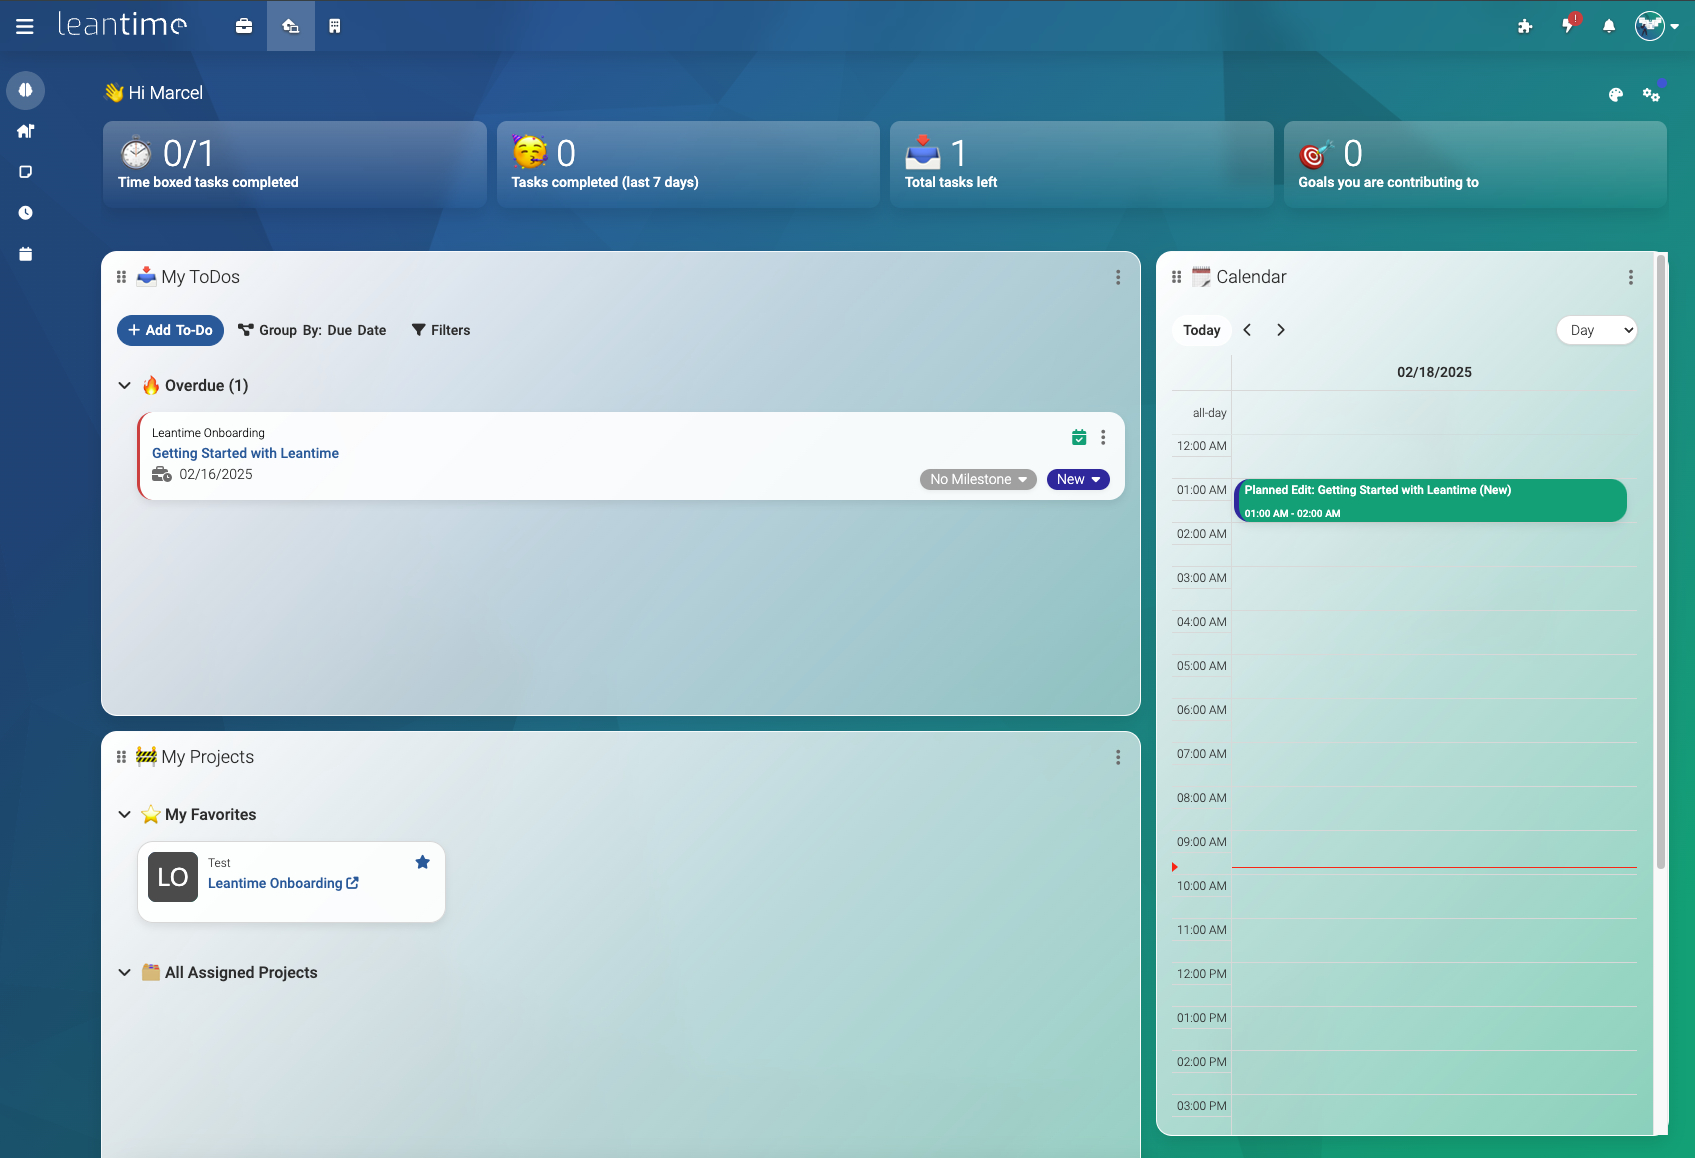
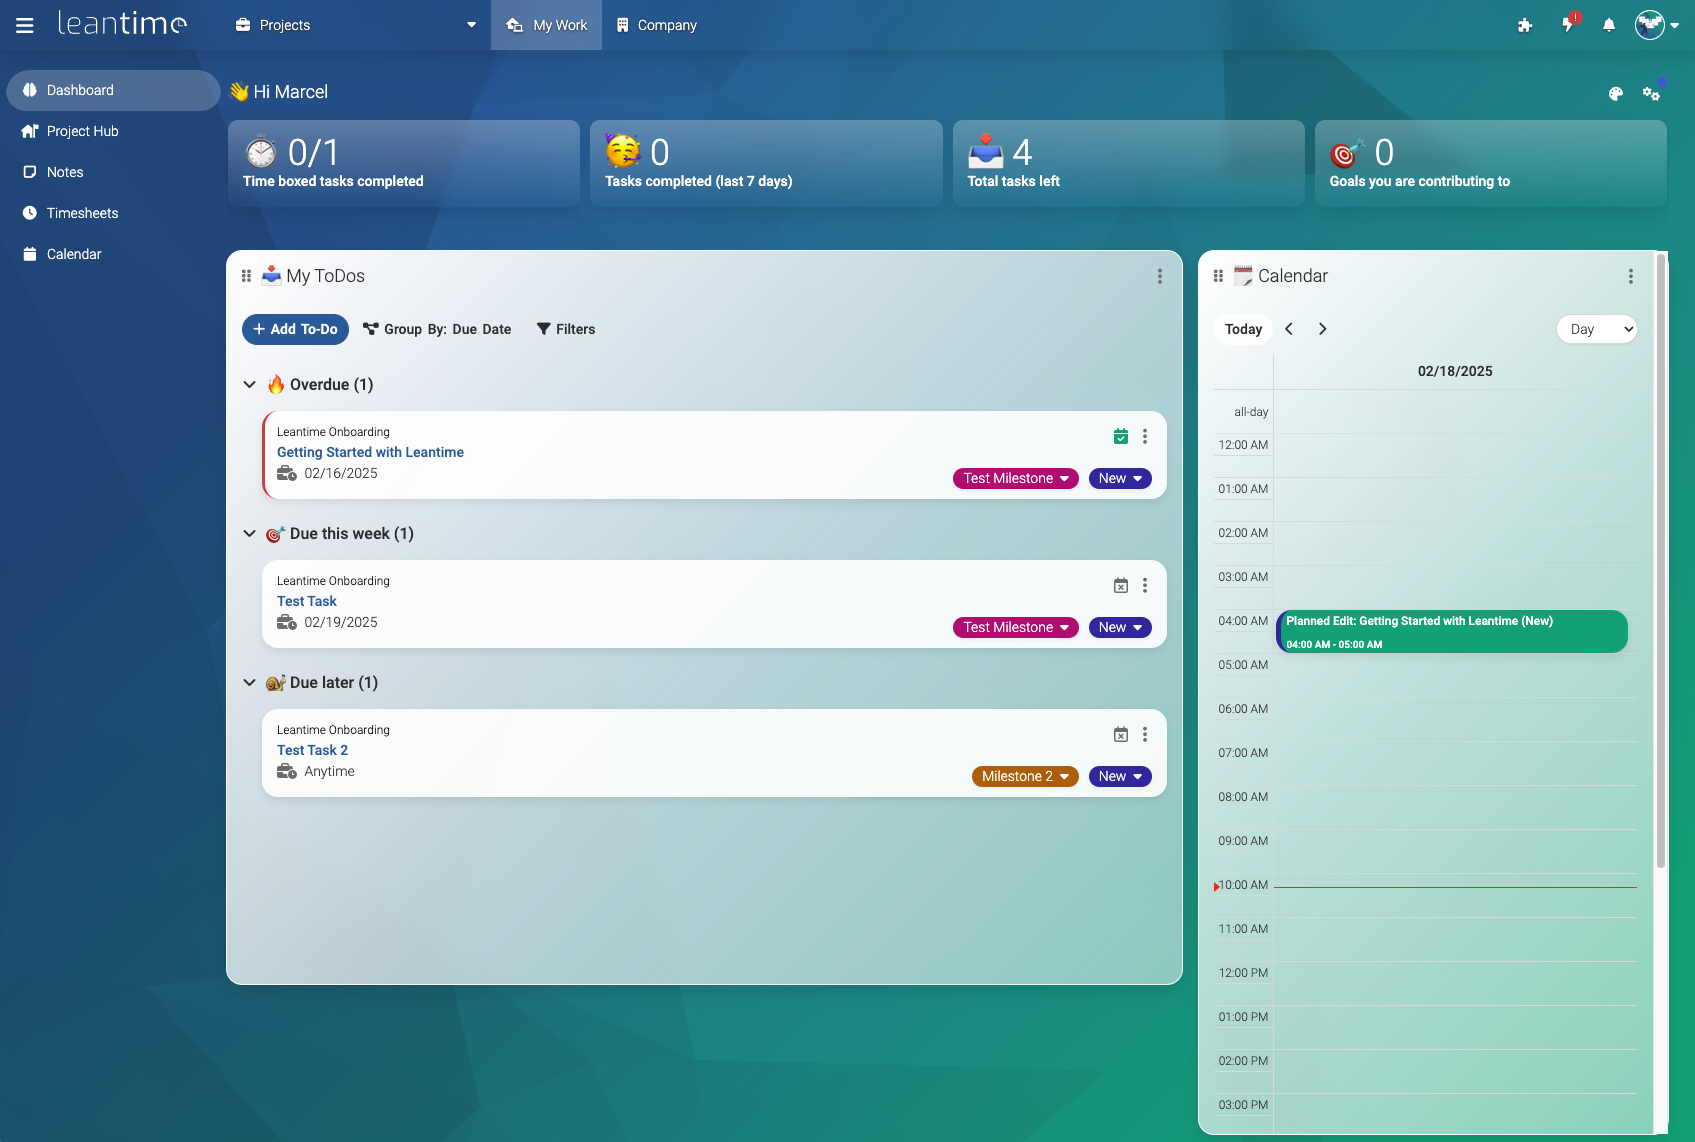
Additional Readme Updates

diff --git a/app/Core/Support/CarbonMacros.php b/app/Core/Support/CarbonMacros.php
@@ -53,7 +53,7 @@ class CarbonMacros
     {
         $mixin = $this;
 
-        return function () use ($mixin): String {
+        return function () use ($mixin): string {
             return self::this()
                 ->locale($mixin->userLanguage)
                 ->setTimezone($mixin->userTimezone)
@@ -72,7 +72,7 @@ class CarbonMacros
     {
         $mixin = $this;
 
-        return function () use ($mixin): String {
+        return function () use ($mixin): string {
             return self::this()
                 ->setTimezone($mixin->userTimezone)
                 ->locale($mixin->userLanguage)
@@ -91,7 +91,7 @@ class CarbonMacros
     {
         $mixin = $this;
 
-        return function () use ($mixin): String {
+        return function () use ($mixin): string {
             return self::this()
                 ->setTimezone($mixin->userTimezone)
                 ->locale($mixin->userLanguage)
@@ -110,7 +110,7 @@ class CarbonMacros
     {
         $mixin = $this;
 
-        return function () use ($mixin): String {
+        return function () use ($mixin): string {
             return self::this()
                 ->setTimezone($mixin->dbTimezone)
                 ->locale($mixin->userLanguage)

diff --git a/app/Domain/Tickets/Services/Tickets.php b/app/Domain/Tickets/Services/Tickets.php
@@ -21,7 +21,7 @@ namespace Leantime\Domain\Tickets\Services {
     use Leantime\Domain\Setting\Repositories\Setting as SettingRepository;
     use Leantime\Domain\Sprints\Services\Sprints as SprintService;
     use Leantime\Domain\Tickets\Models\Tickets as TicketModel;
-    use Leantime\Domain\Tickets\Repositories\TicketHistory as TicketHistory;
+    use Leantime\Domain\Tickets\Repositories\TicketHistory;
     use Leantime\Domain\Tickets\Repositories\Tickets as TicketRepository;
     use Leantime\Domain\Timesheets\Repositories\Timesheets as TimesheetRepository;
     use Leantime\Domain\Timesheets\Services\Timesheets as TimesheetService;

diff --git a/app/Core/UI/Theme.php b/app/Core/UI/Theme.php
@@ -8,7 +8,7 @@ use Illuminate\Support\Str;
 use Leantime\Core\Configuration\AppSettings;
 use Leantime\Core\Configuration\Environment;
 use Leantime\Core\Events\DispatchesEvents;
-use Leantime\Core\Events\EventDispatcher as EventDispatcher;
+use Leantime\Core\Events\EventDispatcher;
 use Leantime\Core\Language;
 use Leantime\Domain\Auth\Services\Auth;
 use Leantime\Domain\Setting\Repositories\Setting;

diff --git a/README.md b/README.md
@@ -2,9 +2,17 @@
 <div align="center">
 <a href="https://leantime.io"><img src="https://leantime.io/wp-content/uploads/2023/03/leantime_logo.png" alt="Leantime Logo" width="300"/></a>
 
-### Leantime&reg; ###
+# Leantime&reg; 
 
-Leantime is an open source project management system for non-project manager.<br />We combine strategy, planning and executing while making it easy for everyone on the team to use. Building with ADHD, dyslexia and autism in mind. <br />It's an alternative to ClickUp, Monday, or Asana. As simple as Trello but as feature-rich as Jira.<br />[https://leantime.io](https://leantime.io)<br />
+⭐ If you find Leantime useful, please star us on GitHub! ⭐
+
+Leantime is an open source project management system for non-project managers.<br />
+We combine strategy, planning and execution while making it easy for everyone on the team to use.<br />
+Built with ADHD, dyslexia and autism in mind. 🧠<br />
+
+💪 As simple as Trello but as feature-rich as Jira<br />
+🔄 A perfect alternative to ClickUp, Monday, or Asana<br />
+🌐 [https://leantime.io](https://leantime.io)<br />
 
 <a href="https://trendshift.io/repositories/2264" target="_blank"><img src="https://trendshift.io/api/badge/repositories/2264" alt="Leantime%2Fleantime | Trendshift" style="width: 250px; height: 55px;" width="250" height="55"/></a>
 
@@ -38,16 +46,27 @@ Leantime is an open source project management system for non-project manager.<br
 | ![alt text](public/assets/images/Screenshots/dark.png "My Work")        |  ![alt text](public/assets/images/Screenshots/projectDashboard.png "Project Dashboard")     |      ![alt text](public/assets/images/Screenshots/table.png "Grouped To-Dos")      |
 |-------------------------------------------------------------------------|:------------------------------------------------------------------------------:|:----------------------------------------------------------------------------------:|
 | ![alt text](public/assets/images/Screenshots/kanban.png "Kanban Board") | ![alt text](public/assets/images/Screenshots/timeline.png "Tasks on timeline") |   ![alt text](public/assets/images/Screenshots/calendar.png "Project Calendar")    |
-| ![alt text](public/assets/images/Screenshots/goals.png "Goals")         |    ![alt text](public/assets/images/Screenshots/docs.png "Documents & Wikis")     |      ![alt text](public/assets/images/Screenshots/timesheet.png "Timsheets")       |
+| ![alt text](public/assets/images/Screenshots/goals.png "Goals")         |    ![alt text](public/assets/images/Screenshots/docs.png "Documents & Wikis")     |      ![alt text](public/assets/images/Screenshots/timesheet.png "Timesheets")       |
 
 <br /><br />
 ### ❗System Requirements ###
 
-* PHP 8.1+
-* MySQL 8.0+
+* PHP 8.2+
+* MySQL 8.0+ or MariaDB 10.6+
 * Apache or Nginx (IIS works with some modifications)
 * PHP Extensions: 
-* * mysql, pdo_mysql, mbstring, GD, exif, pcntl, bcmath, opcache, ldap, zip, openssl, phar
+* mysql
+* pdo_mysql
+* mbstring
+* GD
+* exif
+* pcntl
+* bcmath
+* opcache
+* ldap
+* zip
+* openssl
+* phar
 <br /><br />
 ### ⚡ Installation (Production) ###
 
@@ -74,7 +93,7 @@ Whilst the steps above are applicable to Internet Information Services (IIS), th
 * Double click on the PHP handler mapping that is used by the site
 * Click `Request Restrictions…`
 * Click the `Verbs` tab
-* In the `One of the following verbs` text box, add `,PATCH` - for example: `GET,HEAD,POST,PATCH`
+* In the `One of the following verbs` text box, add `PATCH` - for example: `GET,HEAD,POST,PATCH`
 * Click `OK`
 * In the `Executable (optional)` text box, put a double quote character (`“`) at the start and at the end of the path to the `php-cgi.exe` file (_this isn't needed if the path doesn't have a space in it_)
 * Click `OK`
@@ -178,7 +197,7 @@ For timesheets: <br />
 * If there were any database changes, the system will redirect you to `<yourdomain.com>/update`
 
 #### CLI
-* Run `bin/leantime system:update` 
+* Run `php bin/leantime system:update` 
 
 #### Docker
 * Before updating, make sure your mysql container was started using a mounted volume, otherwise your content will be deleted
@@ -204,12 +223,12 @@ We only offer support for the most recent version.
 
 We do not offer support for Cloudron, Elestio, Turnkey, or other external distribution platforms sharing unofficial versions of Leantime. 
 
-## Contributing
+## 🫴 Contributing
 
 We're excited you are interested in contributing to Leantime. We want to make sure you have a great experience contributing to Leantime and that the new features you build will make it into core. 
 <br />
 
-### Bugs
+### 🪲 Bugs
 
 Find an issue on Github (or create a new one) add your name to it or comment that you will be working on it. Once fixed, create a  Pull Request.
 
@@ -217,19 +236,18 @@ Find an issue on Github (or create a new one) add your name to it or comment tha
 
 If you have an idea about new features please reach out to us on Discord. This is where we coordinate feature development and discuss whether core is the right place to add your new features (Plugins is the alternative). 
 
-### Translations
+### 🌏 Translations
 
 We use (Crowdin)[https://crowdin.com/project/leantime](https://crowdin.com/project/leantime) to manage all of our translations. If you don't see a language please message us on Discord. 
 
-
-### Community Support ##
+### 👥 Community Support
 
 * Documentation [https://docs.leantime.io](https://docs.leantime.io)
 * Community Chat [Discord](https://discord.gg/4zMzJtAq9z)
 * File a bug report [https://github.com/Leantime/leantime/issues/new](https://github.com/Leantime/leantime/issues/new)
 * Translations [https://crowdin.com/project/leantime](https://crowdin.com/project/leantime)
 <br /><br />
-## ⚖ LICENSE Exceptions ##
+## ⚖ LICENSE Exceptions
 
 Leantime is licensed under AGPLv3.
 This file forms part of the Leantime Software for which the following exception is added: Plugins within the `/app/Plugins` directory which may contain plugins licensed under other licenses including our enterprise license.
